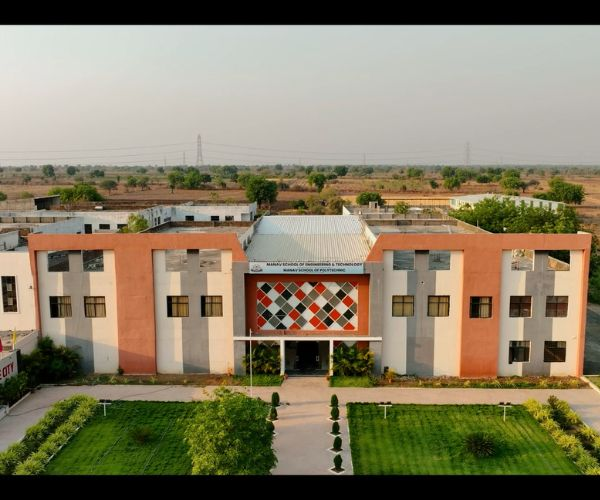
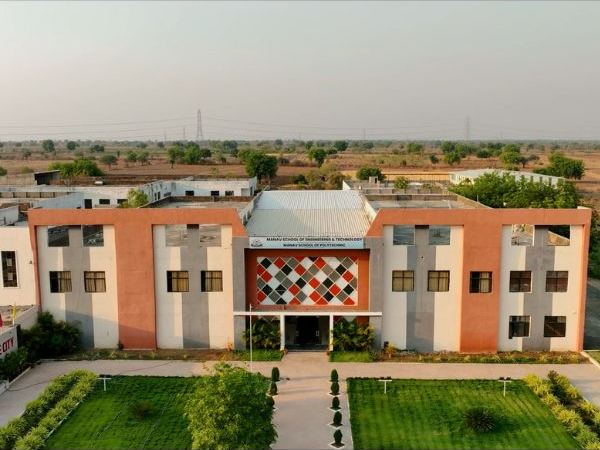
add responsiveness for a mobile

diff --git a/project-details.html b/project-details.html
@@ -64,8 +64,21 @@
     .project-section.visible {
       display: flex;
       gap: 35px;
-      align-items: flex-start;
+      align-items: stretch; /* Make all children (image and content) same height */
       flex-wrap: wrap;
+      /* Remove vertical padding from .project-section, use only margin for outer spacing */
+      padding: 0;
+      margin: 50px auto;
+      box-sizing: border-box;
+    }
+
+    .project-image {
+      display: flex;
+      align-items: center;
+      justify-content: center;
+      /* Make sure image area fills the height of the section */
+      padding: 40px;
+      box-sizing: border-box;
     }
 
     /* Image Slider */
@@ -76,6 +89,8 @@
       border-radius: 12px;
       overflow: hidden;
       box-shadow: 0 6px 18px rgba(0,0,0,0.4);
+      /* Remove margin from slider, use padding on .project-image instead */
+      margin: 0;
     }
 
     .slides {
@@ -85,6 +100,7 @@
     }
 
     .slides img {
+      align-items: center;
       width: 100%;
       border-radius: 12px;
       object-fit: cover;
@@ -163,6 +179,154 @@
       background: #005f99;
       transform: scale(1.05);
     }
+   
+    @media (max-width: 900px) {
+      .project-section.visible {
+        flex-direction: column;
+        align-items: stretch;
+        gap: 0;
+      }
+      .project-image {
+        padding: 24px 0 0 0;
+        justify-content: flex-start;
+      }
+    }
+
+    @media (max-width: 600px) {
+      .project-image {
+        padding: 16px 0 0 0;
+      }
+      .slider {
+        width: 100%;
+      }
+    }
+    /* Add this inside your <style> tag in project-details.html for improved responsiveness */
+/* ...existing code... */
+
+/* Responsive adjustments for project details page */
+@media (max-width: 1100px) {
+  .project-section,
+  .project-section.visible {
+    max-width: 98vw;
+    margin: 30px 1vw;
+  }
+}
+
+@media (max-width: 900px) {
+  .project-section.visible {
+    flex-direction: column;
+    align-items: stretch;
+    gap: 0;
+    padding: 0;
+    margin: 30px 0;
+  }
+  .project-image {
+    padding: 24px 0 0 0;
+    justify-content: flex-start;
+  }
+  .project-content {
+    padding: 0 16px 24px 16px;
+  }
+}
+
+/* ...existing code... */
+
+/* Responsive adjustments for project details page */
+@media (max-width: 600px) {
+  header {
+    flex-direction: row;
+    justify-content: space-between;
+    align-items: center;
+    padding: 12px 10px;
+    gap: 0;
+    text-align: left;
+  }
+  header h1 {
+    font-size: 18px;
+    text-align: left;
+    flex: 1;
+    margin: 0;
+  }
+  .back-btn {
+    width: auto;
+    font-size: 13px;
+    padding: 8px 14px;
+    margin-left: 10px;
+    margin-right: 0;
+  }
+  .project-section,
+  .project-section.visible {
+    margin: 12px 0 12px 0;
+    border-radius: 8px;
+    max-width: 100vw;
+    box-sizing: border-box;
+  }
+  .project-image {
+    padding: 18px 0 18px 0; /* Top and bottom padding, no right/left */
+    justify-content: center;
+    width: 100%;
+    box-sizing: border-box;
+  }
+  .slider {
+    width: 100%;
+    min-width: 0;
+    margin: 0;
+  }
+  .project-content {
+    padding: 0 8px 16px 8px;
+  }
+  .project-content h2 {
+    font-size: 20px;
+  }
+  .tech-stack span {
+    font-size: 11px;
+    padding: 4px 8px;
+  }
+  .links {
+    flex-direction: column;
+    gap: 10px;
+    align-items: flex-start;
+  }
+  .link-btn {
+    width: 100%;
+    text-align: center;
+    font-size: 13px;
+    padding: 8px 0;
+  }
+}
+
+/* Remove right gap on all screens for .slider */
+.slider {
+  margin-right: 0 !important;
+}
+
+/* Prevent horizontal scroll */
+html, body {
+  max-width: 100vw;
+  overflow-x: hidden;
+}
+/* ...existing code... */
+
+@media (max-width: 400px) {
+  .project-content h2 {
+    font-size: 16px;
+  }
+  .tech-stack {
+    gap: 5px;
+  }
+  .tech-stack span {
+    font-size: 9px;
+    padding: 3px 6px;
+  }
+}
+
+/* Prevent horizontal scroll */
+html, body {
+  max-width: 100vw;
+  overflow-x: hidden;
+}
+
+/* ...existing code... */
   </style>
 </head>
 <body>
@@ -187,7 +351,7 @@
   </div>
 
   <div class="project-content">
-    <h2>🤖 AI Chatbot</h2>
+    <h2> AI Chatbot</h2>
     <div class="tech-stack">
       <span>HTML</span><span>CSS</span><span>JavaScript</span><span>FastApi</span><span>RAG</span><span> Sentence Transformers</span>
       <span> MySql</span>

diff --git a/style.css b/style.css
@@ -982,3 +982,112 @@ span{
         cursor: default;
     }
 }
+
+/* ...existing code... */
+
+/* 1. Make .home-img and images scale better on small screens */
+@media (max-width: 991px) {
+  .home-img {
+    min-width: 100%;
+    margin: 4rem 0;
+  }
+  .home-img img {
+    width: 60vw;
+    min-width: unset;
+    max-width: 90vw;
+  }
+}
+
+@media (max-width: 768px) {
+  .home-img {
+    min-width: 100%;
+    margin: 2rem 0;
+  }
+  .home-img img {
+    width: 80vw;
+    min-width: unset;
+    max-width: 95vw;
+  }
+}
+
+/* 2. About section image scaling and padding */
+@media (max-width: 991px) {
+  .about-img img {
+    width: 60vw;
+    min-width: unset;
+    max-width: 90vw;
+    border-width: 12px;
+  }
+}
+@media (max-width: 600px) {
+  .about-img img {
+    width: 80vw;
+    border-width: 8px;
+  }
+}
+
+/* 3. Portfolio grid improvements */
+@media (max-width: 991px) {
+  .portfolio-container {
+    grid-template-columns: repeat(2, 1fr);
+    gap: 1.5rem;
+  }
+}
+@media (max-width: 768px) {
+  .portfolio-container {
+    grid-template-columns: 1fr;
+    gap: 1.2rem;
+  }
+  .portfolio-box img {
+    width: 100%;
+    height: auto;
+    min-width: unset;
+    max-width: 100%;
+  }
+}
+
+/* 4. Footer stacking and padding */
+@media (max-width: 600px) {
+  .footer {
+    flex-direction: column;
+    align-items: center;
+    padding: 2rem 5%;
+    text-align: center;
+  }
+  .footer-text p {
+    margin-bottom: 1rem;
+  }
+}
+
+/* 5. Contact form full width on mobile */
+@media (max-width: 600px) {
+  .contact form .input-box {
+    flex-direction: column;
+    gap: 0;
+  }
+  .contact form .input-box input {
+    width: 100%;
+    margin-bottom: 1rem;
+  }
+}
+
+/* 6. General font and spacing tweaks for very small screens */
+@media (max-width: 400px) {
+  html {
+    font-size: 45%;
+  }
+  .heading {
+    font-size: 2.5rem;
+  }
+  .portfolio-layer h4 {
+    font-size: 2rem;
+  }
+}
+
+/* 7. Prevent horizontal scroll on all devices */
+html, body {
+  max-width: 100vw;
+  overflow-x: hidden;
+}
+
+/* ...existing code... */

diff --git a/index.html b/index.html
@@ -68,11 +68,8 @@
       <h2 class="heading">About<span> Me</span></h2>
 
       <!-- <h3>Frontend Developer</h3> -->
-      <p>👋 Hi! I’m Prajwal, a Full Stack Developer who loves turning ideas into real-world solutions. I build robust
-        backends with Python and Django, pair them with sleek frontends using Angular, and sprinkle in SQL for data
-        management. When I’m not coding, I use Power BI to transform raw data into visual stories. Currently seeking
-        roles where I can create impactful tools—whether that’s backend systems, full-stack apps, or data-driven
-        insights. Let’s build something meaningful!</p>
+      <p>👋 Hi! I’m Prajwal, currently working as an Associate Python Developer. I specialize in building robust backends with Python and Django, designing APIs, and ensuring smooth integration with modern frontends. I also have experience with Angular for frontend development and SQL for efficient data management. Beyond development, I enjoy working with Power BI to turn raw data into clear, actionable insights. I’m passionate about creating impactful tools—whether that’s scalable backend systems, full-stack applications, or data-driven solutions. Let’s connect and build something meaningful!</p>
+
       <div class="box-container">
         <div class="box">
           <p><span> Age : </span> 22</p>
@@ -387,9 +384,9 @@
 
 
   <footer class="footer">
-    <div class="footer-text">
-      <p>Copyright & copy; 2025 By Prajwal | All Rights Reserved.</p>
-    </div>
+<div class="footer-text">
+  <p>&copy; 2025 Prajwal Bhutkar. All Rights Reserved.</p>
+</div>
 
     <div class="footer-iconTop">
       <a href="#home"><i class='bx bx-up-arrow-alt'></i></a>
